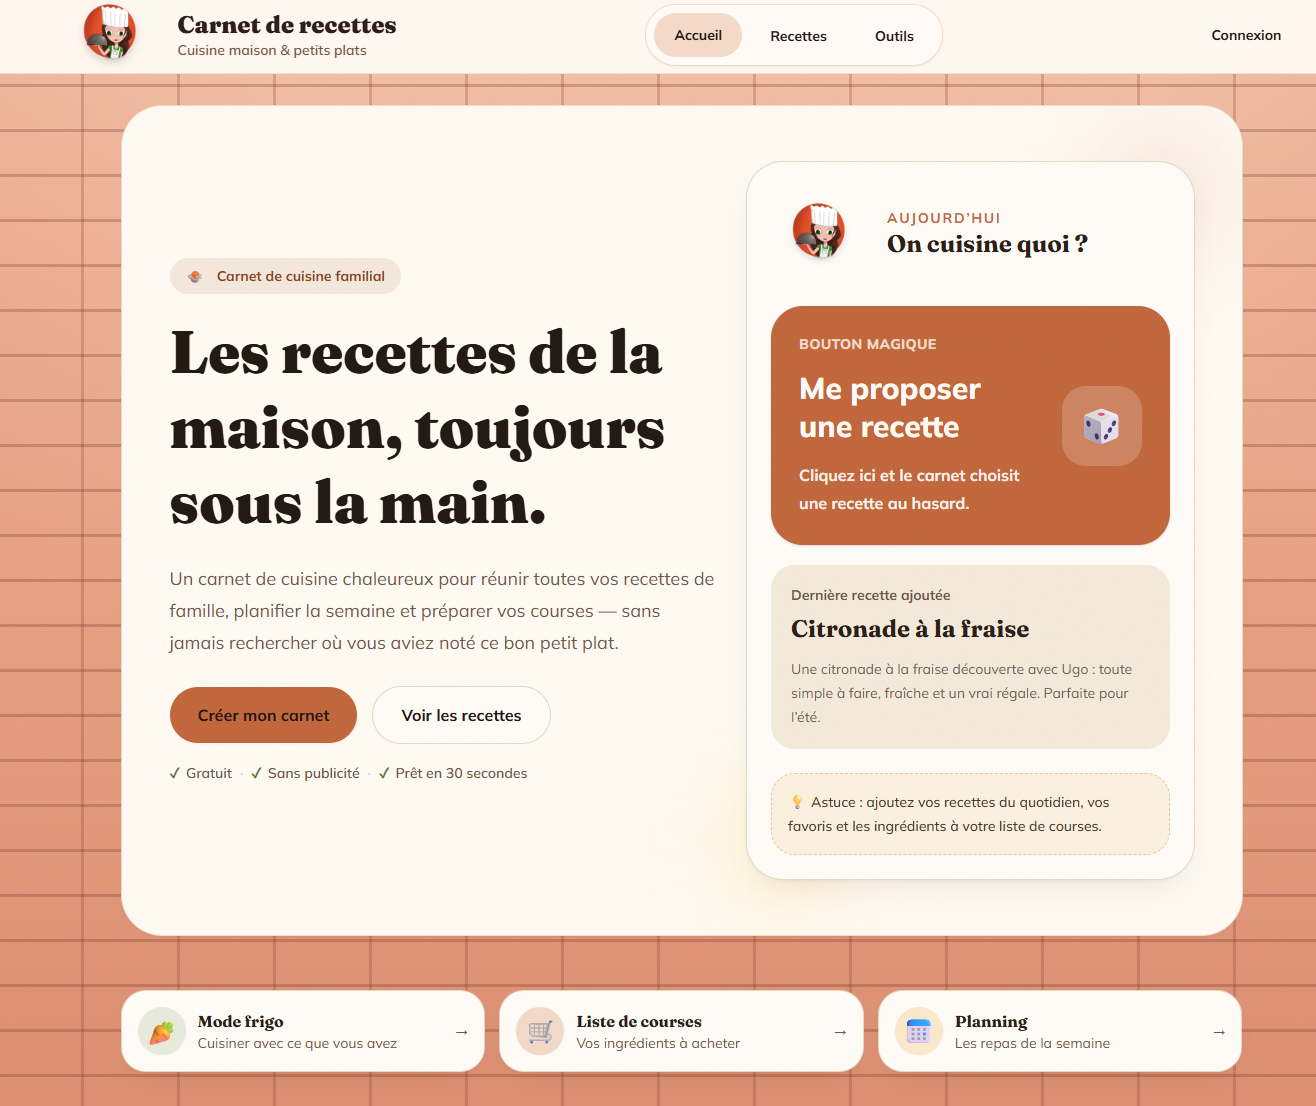
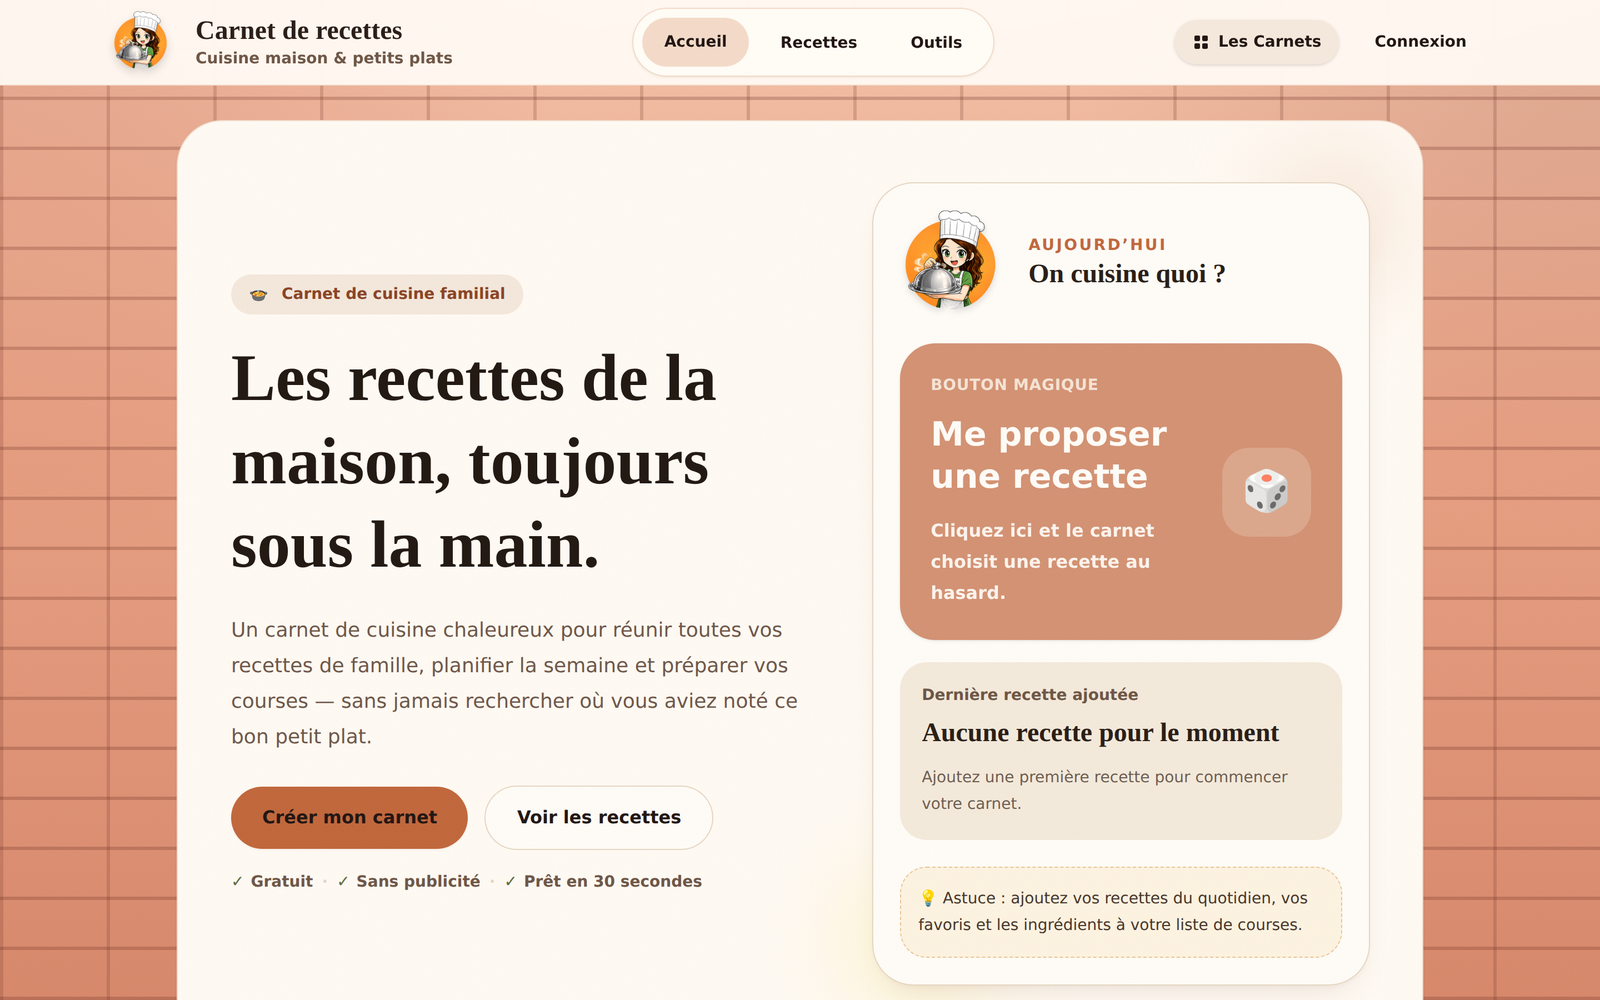
Vitrine : nouvelles captures des 3 carnets (recettes, budget, sport) + Sport ajouté à l'aperçu

diff --git a/src/components/Showcase.tsx b/src/components/Showcase.tsx
@@ -18,6 +18,14 @@ const SHOTS = [
     tagline: 'Un vrai cockpit financier : comptes, budgets, épargne et objectifs.',
     accent: 'text-sage-deep',
   },
+  {
+    src: '/shot-sport.png',
+    alt: 'Aperçu du Carnet de sport',
+    url: 'sport.lescarnets.app',
+    name: 'Carnet de sport',
+    tagline: 'Vos séances, votre progression et vos objectifs, dans un carnet qui motive.',
+    accent: 'text-azure-deep',
+  },
 ]
 
 export default function Showcase() {
@@ -31,7 +39,7 @@ export default function Showcase() {
           subtitle="Le même soin dans chaque carnet — une interface douce et lisible, pensée pour que tout soit à portée de main."
         />
 
-        <div className="mt-9 grid gap-8 lg:grid-cols-2">
+        <div className="mt-9 grid gap-8 sm:grid-cols-2 lg:grid-cols-3">
           {SHOTS.map((shot) => (
             <figure key={shot.src} className="flex flex-col">
               <BrowserFrame
